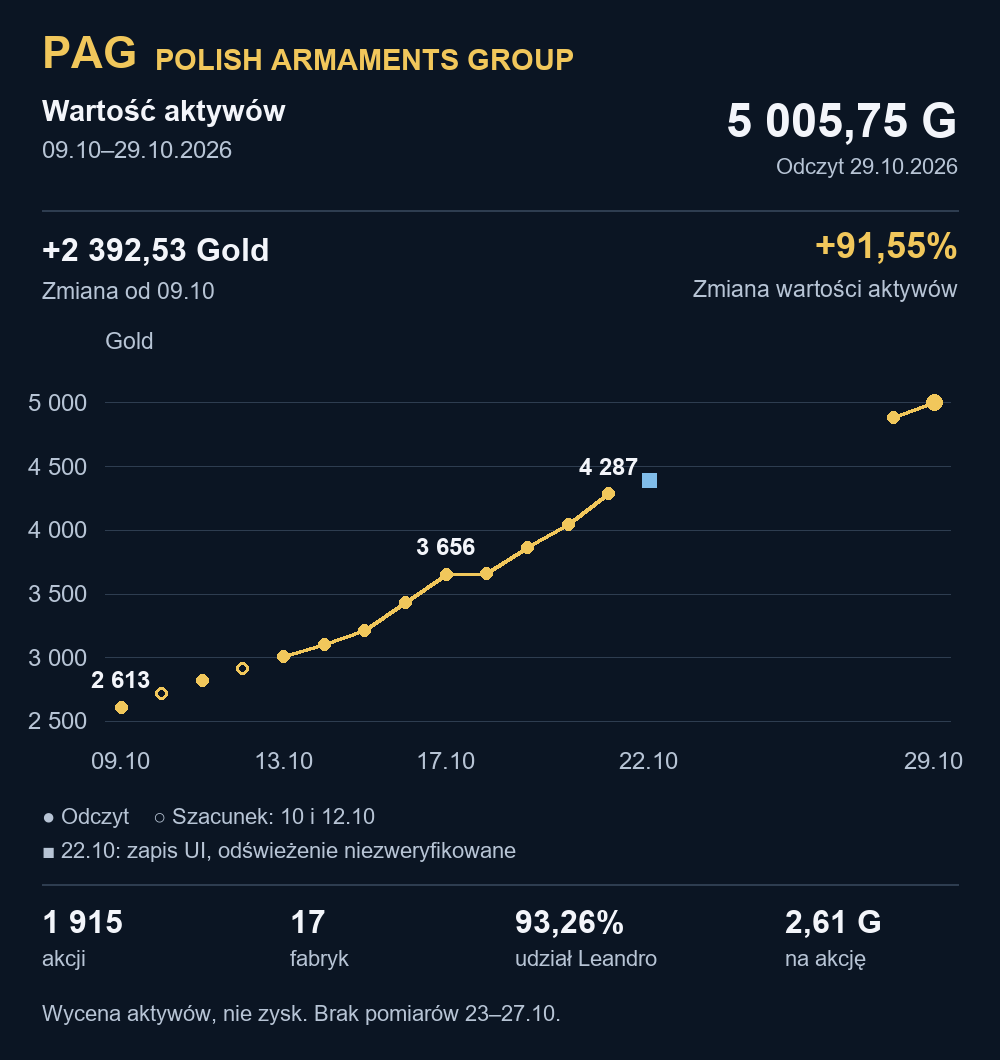
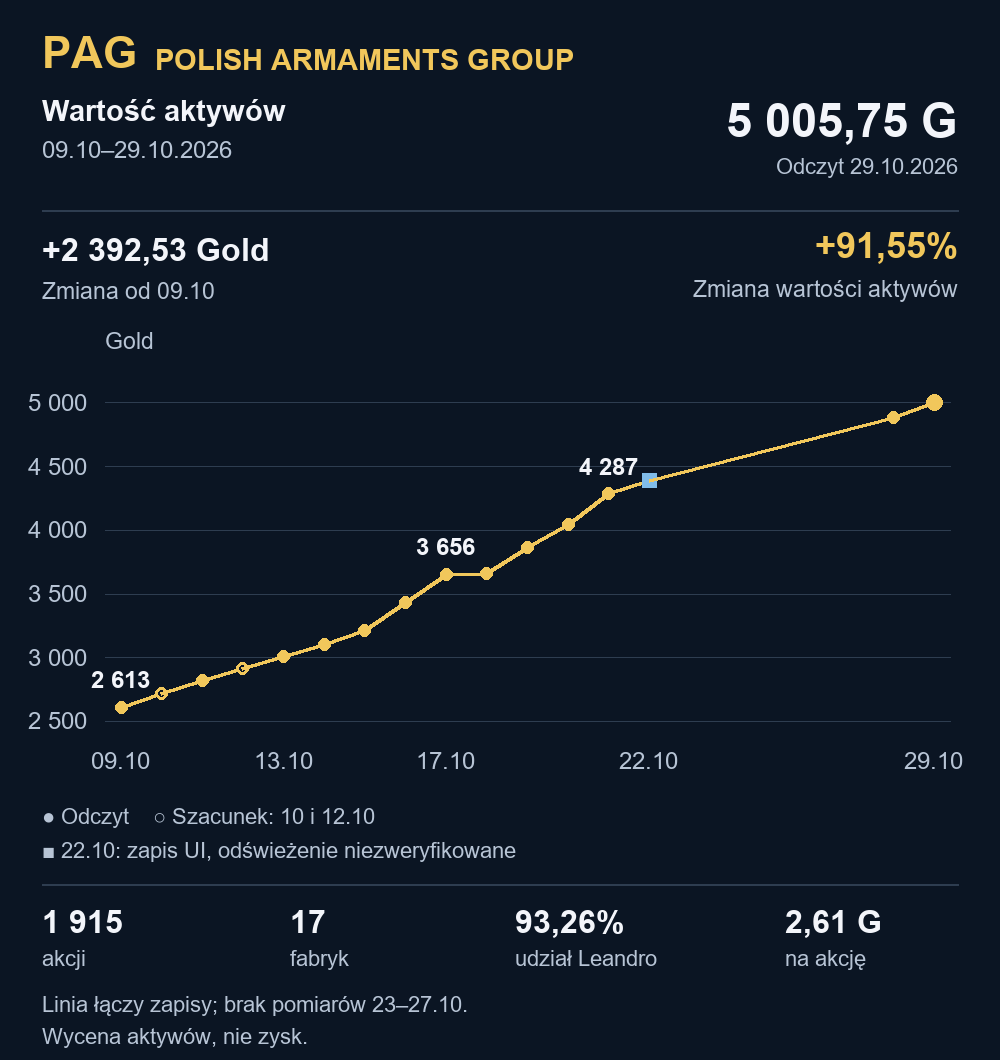
Connect all PAG chart observations with a continuous line

Changed region(s): [[0.031, 0.934, 0.558, 0.9962]]

diff --git a/pag-chart.html b/pag-chart.html
@@ -1794,7 +1794,7 @@ html&gt;body{padding:0}&lt;/style&gt;
 &lt;h2&gt;PAG · rozwój spółki&lt;/h2&gt;
 &lt;div class=&quot;viz-controls&quot;&gt;&lt;label class=&quot;form-label&quot;&gt;Miara&lt;select class=&quot;form-select&quot; id=&quot;pag-metric&quot;&gt;&lt;option value=&quot;value_gold&quot;&gt;Wartość spółki · Gold&lt;/option&gt;&lt;option value=&quot;shares&quot;&gt;Wyemitowane akcje&lt;/option&gt;&lt;option value=&quot;leandro_shares&quot;&gt;Akcje Leandro Daniels&lt;/option&gt;&lt;option value=&quot;ownership&quot;&gt;Udział Leandro · %&lt;/option&gt;&lt;option value=&quot;perShare&quot;&gt;Wartość aktywów na akcję · Gold&lt;/option&gt;&lt;option value=&quot;factories&quot;&gt;Fabryki&lt;/option&gt;&lt;/select&gt;&lt;/label&gt;&lt;/div&gt;
 &lt;div id=&quot;pag-plot&quot;&gt;&lt;/div&gt;
-&lt;div class=&quot;viz-row text-small&quot;&gt;&lt;span&gt;● Odczyt&lt;/span&gt;&lt;span&gt;○ Szacunek dnia (10 i 12.10)&lt;/span&gt;&lt;span&gt;■ UI: odświeżenie niezweryfikowane (22.10)&lt;/span&gt;&lt;/div&gt;
+&lt;div class=&quot;viz-row text-small&quot;&gt;&lt;span&gt;● Odczyt&lt;/span&gt;&lt;span&gt;○ Szacunek dnia (10 i 12.10)&lt;/span&gt;&lt;span&gt;■ UI: odświeżenie niezweryfikowane (22.10)&lt;/span&gt;&lt;span&gt;Linia łączy zapisy; nie oznacza dodatkowych pomiarów.&lt;/span&gt;&lt;/div&gt;
 &lt;div id=&quot;pag-change&quot; class=&quot;tabular-nums&quot; aria-live=&quot;polite&quot;&gt;&lt;/div&gt;
 &lt;div class=&quot;table-responsive&quot;&gt;&lt;table class=&quot;table table-sm&quot;&gt;&lt;thead&gt;&lt;tr&gt;&lt;th&gt;Miara&lt;/th&gt;&lt;th&gt;11.10.2026&lt;/th&gt;&lt;th id=&quot;pag-latest&quot;&gt;&lt;/th&gt;&lt;th&gt;Zmiana&lt;/th&gt;&lt;/tr&gt;&lt;/thead&gt;&lt;tbody id=&quot;pag-summary&quot;&gt;&lt;/tbody&gt;&lt;/table&gt;&lt;/div&gt;
 &lt;details&gt;&lt;summary&gt;Historia i źródła&lt;/summary&gt;&lt;div class=&quot;table-responsive&quot;&gt;&lt;table class=&quot;table table-sm&quot;&gt;&lt;thead&gt;&lt;tr&gt;&lt;th&gt;Data&lt;/th&gt;&lt;th id=&quot;pag-column&quot;&gt;Gold&lt;/th&gt;&lt;th&gt;Status / źródło&lt;/th&gt;&lt;/tr&gt;&lt;/thead&gt;&lt;tbody id=&quot;pag-history&quot;&gt;&lt;/tbody&gt;&lt;/table&gt;&lt;/div&gt;&lt;/details&gt;
@@ -1833,8 +1833,8 @@ svg.append(&#x27;g&#x27;).attr(&#x27;transform&#x27;,`translate(0,${h-m.b})`).ca
 svg.append(&#x27;g&#x27;).attr(&#x27;transform&#x27;,`translate(${m.l},0)`).call(d3.axisLeft(y).ticks(4).tickFormat(v=&gt;fmt(v,n&gt;2?2:n)));
 svg.append(&#x27;text&#x27;).attr(&#x27;class&#x27;,&#x27;axis-title&#x27;).attr(&#x27;data-axis&#x27;,&#x27;y&#x27;).attr(&#x27;x&#x27;,m.l).attr(&#x27;y&#x27;,18).text(unit);
 svg.append(&#x27;text&#x27;).attr(&#x27;class&#x27;,&#x27;axis-title&#x27;).attr(&#x27;data-axis&#x27;,&#x27;x&#x27;).attr(&#x27;x&#x27;,w-m.r).attr(&#x27;y&#x27;,h-15).attr(&#x27;text-anchor&#x27;,&#x27;end&#x27;).text(&#x27;Data · 2026&#x27;);
-const line=d3.line().defined(d=&gt;d[key]!=null&amp;&amp;d.status!==&#x27;estimated_missing_day&#x27;&amp;&amp;d.status!==&#x27;saved_ui_refresh_unverified&#x27;).x(d=&gt;x(d.x)).y(d=&gt;y(d[key]));
-svg.append(&#x27;path&#x27;).attr(&#x27;d&#x27;,line(data)).attr(&#x27;fill&#x27;,&#x27;none&#x27;).attr(&#x27;stroke&#x27;,&#x27;var(--viz-series-1)&#x27;).attr(&#x27;stroke-width&#x27;,2);
+const line=d3.line().x(d=&gt;x(d.x)).y(d=&gt;y(d[key]));
+svg.append(&#x27;path&#x27;).attr(&#x27;d&#x27;,line(points)).attr(&#x27;fill&#x27;,&#x27;none&#x27;).attr(&#x27;stroke&#x27;,&#x27;var(--viz-series-1)&#x27;).attr(&#x27;stroke-width&#x27;,2);
 points.forEach((d,i)=&gt;{const px=x(d.x),py=y(d[key]),estimated=d.status===&#x27;estimated_missing_day&#x27;,unverified=d.status===&#x27;saved_ui_refresh_unverified&#x27;;
 if(unverified)svg.append(&#x27;rect&#x27;).attr(&#x27;x&#x27;,px-5).attr(&#x27;y&#x27;,py-5).attr(&#x27;width&#x27;,10).attr(&#x27;height&#x27;,10).attr(&#x27;fill&#x27;,&#x27;var(--viz-series-2)&#x27;);
 else svg.append(&#x27;circle&#x27;).attr(&#x27;cx&#x27;,px).attr(&#x27;cy&#x27;,py).attr(&#x27;r&#x27;,5).attr(&#x27;fill&#x27;,estimated?&#x27;var(--background)&#x27;:&#x27;var(--viz-series-1)&#x27;).attr(&#x27;stroke&#x27;,&#x27;var(--viz-series-1)&#x27;).attr(&#x27;stroke-width&#x27;,2);

diff --git a/pag-growth.html b/pag-growth.html
@@ -2,7 +2,7 @@
 <h2>PAG · rozwój spółki</h2>
 <div class="viz-controls"><label class="form-label">Miara<select class="form-select" id="pag-metric"><option value="value_gold">Wartość spółki · Gold</option><option value="shares">Wyemitowane akcje</option><option value="leandro_shares">Akcje Leandro Daniels</option><option value="ownership">Udział Leandro · %</option><option value="perShare">Wartość aktywów na akcję · Gold</option><option value="factories">Fabryki</option></select></label></div>
 <div id="pag-plot"></div>
-<div class="viz-row text-small"><span>● Odczyt</span><span>○ Szacunek dnia (10 i 12.10)</span><span>■ UI: odświeżenie niezweryfikowane (22.10)</span></div>
+<div class="viz-row text-small"><span>● Odczyt</span><span>○ Szacunek dnia (10 i 12.10)</span><span>■ UI: odświeżenie niezweryfikowane (22.10)</span><span>Linia łączy zapisy; nie oznacza dodatkowych pomiarów.</span></div>
 <div id="pag-change" class="tabular-nums" aria-live="polite"></div>
 <div class="table-responsive"><table class="table table-sm"><thead><tr><th>Miara</th><th>11.10.2026</th><th id="pag-latest"></th><th>Zmiana</th></tr></thead><tbody id="pag-summary"></tbody></table></div>
 <details><summary>Historia i źródła</summary><div class="table-responsive"><table class="table table-sm"><thead><tr><th>Data</th><th id="pag-column">Gold</th><th>Status / źródło</th></tr></thead><tbody id="pag-history"></tbody></table></div></details>
@@ -41,8 +41,8 @@ svg.append('g').attr('transform',`translate(0,${h-m.b})`).call(d3.axisBottom(x).
 svg.append('g').attr('transform',`translate(${m.l},0)`).call(d3.axisLeft(y).ticks(4).tickFormat(v=>fmt(v,n>2?2:n)));
 svg.append('text').attr('class','axis-title').attr('data-axis','y').attr('x',m.l).attr('y',18).text(unit);
 svg.append('text').attr('class','axis-title').attr('data-axis','x').attr('x',w-m.r).attr('y',h-15).attr('text-anchor','end').text('Data · 2026');
-const line=d3.line().defined(d=>d[key]!=null&&d.status!=='estimated_missing_day'&&d.status!=='saved_ui_refresh_unverified').x(d=>x(d.x)).y(d=>y(d[key]));
-svg.append('path').attr('d',line(data)).attr('fill','none').attr('stroke','var(--viz-series-1)').attr('stroke-width',2);
+const line=d3.line().x(d=>x(d.x)).y(d=>y(d[key]));
+svg.append('path').attr('d',line(points)).attr('fill','none').attr('stroke','var(--viz-series-1)').attr('stroke-width',2);
 points.forEach((d,i)=>{const px=x(d.x),py=y(d[key]),estimated=d.status==='estimated_missing_day',unverified=d.status==='saved_ui_refresh_unverified';
 if(unverified)svg.append('rect').attr('x',px-5).attr('y',py-5).attr('width',10).attr('height',10).attr('fill','var(--viz-series-2)');
 else svg.append('circle').attr('cx',px).attr('cy',py).attr('r',5).attr('fill',estimated?'var(--background)':'var(--viz-series-1)').attr('stroke','var(--viz-series-1)').attr('stroke-width',2);

diff --git a/pag-template.html b/pag-template.html
@@ -2,7 +2,7 @@
 <h2>PAG · rozwój spółki</h2>
 <div class="viz-controls"><label class="form-label">Miara<select class="form-select" id="pag-metric"><option value="value_gold">Wartość spółki · Gold</option><option value="shares">Wyemitowane akcje</option><option value="leandro_shares">Akcje Leandro Daniels</option><option value="ownership">Udział Leandro · %</option><option value="perShare">Wartość aktywów na akcję · Gold</option><option value="factories">Fabryki</option></select></label></div>
 <div id="pag-plot"></div>
-<div class="viz-row text-small"><span>● Odczyt</span><span>○ Szacunek dnia (10 i 12.10)</span><span>■ UI: odświeżenie niezweryfikowane (22.10)</span></div>
+<div class="viz-row text-small"><span>● Odczyt</span><span>○ Szacunek dnia (10 i 12.10)</span><span>■ UI: odświeżenie niezweryfikowane (22.10)</span><span>Linia łączy zapisy; nie oznacza dodatkowych pomiarów.</span></div>
 <div id="pag-change" class="tabular-nums" aria-live="polite"></div>
 <div class="table-responsive"><table class="table table-sm"><thead><tr><th>Miara</th><th>11.10.2026</th><th id="pag-latest"></th><th>Zmiana</th></tr></thead><tbody id="pag-summary"></tbody></table></div>
 <details><summary>Historia i źródła</summary><div class="table-responsive"><table class="table table-sm"><thead><tr><th>Data</th><th id="pag-column">Gold</th><th>Status / źródło</th></tr></thead><tbody id="pag-history"></tbody></table></div></details>
@@ -41,8 +41,8 @@ svg.append('g').attr('transform',`translate(0,${h-m.b})`).call(d3.axisBottom(x).
 svg.append('g').attr('transform',`translate(${m.l},0)`).call(d3.axisLeft(y).ticks(4).tickFormat(v=>fmt(v,n>2?2:n)));
 svg.append('text').attr('class','axis-title').attr('data-axis','y').attr('x',m.l).attr('y',18).text(unit);
 svg.append('text').attr('class','axis-title').attr('data-axis','x').attr('x',w-m.r).attr('y',h-15).attr('text-anchor','end').text('Data · 2026');
-const line=d3.line().defined(d=>d[key]!=null&&d.status!=='estimated_missing_day'&&d.status!=='saved_ui_refresh_unverified').x(d=>x(d.x)).y(d=>y(d[key]));
-svg.append('path').attr('d',line(data)).attr('fill','none').attr('stroke','var(--viz-series-1)').attr('stroke-width',2);
+const line=d3.line().x(d=>x(d.x)).y(d=>y(d[key]));
+svg.append('path').attr('d',line(points)).attr('fill','none').attr('stroke','var(--viz-series-1)').attr('stroke-width',2);
 points.forEach((d,i)=>{const px=x(d.x),py=y(d[key]),estimated=d.status==='estimated_missing_day',unverified=d.status==='saved_ui_refresh_unverified';
 if(unverified)svg.append('rect').attr('x',px-5).attr('y',py-5).attr('width',10).attr('height',10).attr('fill','var(--viz-series-2)');
 else svg.append('circle').attr('cx',px).attr('cy',py).attr('r',5).attr('fill',estimated?'var(--background)':'var(--viz-series-1)').attr('stroke','var(--viz-series-1)').attr('stroke-width',2);

diff --git a/build.py b/build.py
@@ -58,7 +58,7 @@ for value in range(((int(low)+499)//500)*500,int(high),500):
     py=y(value);draw.line((left,py,right,py),fill=grid,width=1);text(left-18,py,number(value,0),24,muted,anchor='rm')
 for i,d in enumerate(rows):
     px=x(dates[i]);py=y(values[i]);status=d.get('status','confirmed')
-    if i and (dates[i]-dates[i-1]).days==1 and all(rows[j].get('status') not in ('estimated_missing_day','saved_ui_refresh_unverified') for j in (i-1,i)):
+    if i:
         draw.line((x(dates[i-1]),y(values[i-1]),px,py),fill=gold,width=4)
     if status=='saved_ui_refresh_unverified': draw.rectangle((px-7,py-7,px+7,py+7),fill=blue)
     else: draw.ellipse((px-6,py-6,px+6,py+6),fill=bg if status=='estimated_missing_day' else gold,outline=gold,width=3)
@@ -76,7 +76,8 @@ metrics=[(42,number(latest['shares'],0),'akcji'),(290,str(latest['factories']),'
 for px,value,label in metrics:
     text(px,904,value,32,fg,True)
     text(px,946,label,22,muted)
-text(42,1001,'Wycena aktywów, nie zysk. Brak pomiarów 23–27.10.',22,muted)
+text(42,992,'Linia łączy zapisy; brak pomiarów 23–27.10.',22,muted)
+text(42,1024,'Wycena aktywów, nie zysk.',22,muted)
 image.save(ROOT/'pag-chart.tmp.png')
 os.replace(ROOT/'pag-chart.tmp.png',ROOT/'pag-chart.png')
 print(json.dumps({'records':len(rows),'latest':latest['date'],'value':latest['value_gold'],'dimensions':image.size},ensure_ascii=False))
